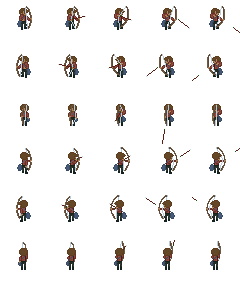
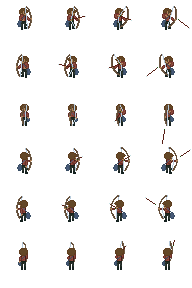
projectile height refactoring

diff --git a/src/components/HexGame/controllers/utils/HexMapPathFinder.js b/src/components/HexGame/controllers/utils/HexMapPathFinder.js
@@ -36,13 +36,10 @@ export default class HexMapPathFinderClass {
     findMoveSet = () => {
 
         let unit = this.unitData.selectedUnit
-        if (unit === null) return
 
         let moveSet = this.utils.findMoveSet(unit.position, unit.stats.movement)
         let actionMoveSet = this.utils.findActionMoveSet(unit.position)
         let attackMoveSet = this.utils.findAttackMoveSet(unit.position, unit.stats.range)
-
-        if (!moveSet) return
 
         let movementSet = []
         let actionSet = []
@@ -50,22 +47,17 @@ export default class HexMapPathFinderClass {
 
         for (let tileObj of moveSet) {
             let tile = this.tileData.getEntry(tileObj.tile)
-
             movementSet.push({ ...tile.position })
         }
 
         //search for structures
-        for (let tile of actionMoveSet) {
-            if ((this.structureData.hasStructure(tile.position) && this.structureData.getStructure(tile.position).spriteType === 'resource')
-                || (this.structureData.hasStructure(tile.position) && this.structureData.getStructure(tile.position).spriteType === 'flag')) {
-                actionSet.push({ ...tile.position })
-            }
-        }
+        for (let tile of actionMoveSet) if (this.structureData.hasAction(tile.position)) actionSet.push({ ...tile.position })  
+        
 
         for (let tile of attackMoveSet) {
             if (this.unitData.getUnit(tile.position) !== null
                 || (this.structureData.hasStructure(tile.position) && this.structureData.getStructure(tile.position).spriteType === 'bunker')) {
-                if (this.validTarget(unit.position, tile.position)) attackSet.push({ ...tile.position })
+                if (this.validTarget(unit.position, tile.position, unit.stats['drop_attack'])) attackSet.push({ ...tile.position })
             }
         }
 
@@ -100,11 +92,10 @@ export default class HexMapPathFinderClass {
         let attackSet = []
 
         for (let tile of attackMoveSet) {
-            if (this.commonUtils.tilesEqual(tile.position, unit.position)) continue
             if (this.unitData.getUnit(tile.position) !== null
                 || (this.structureData.hasStructure(tile.position) && this.structureData.getStructure(tile.position).spriteType === 'bunker')) {
                 if (this.selectionData.getPathingSelection('attack').some(pos => this.commonUtils.tilesEqual(tile.position, pos))) continue
-                if (this.validTarget(unit.position, tile.position)) attackSet.push({ ...tile.position })
+                if (this.validTarget(unit.position, tile.position, unit.stats['drop_attack'])) attackSet.push({ ...tile.position })
             }
         }
 
@@ -138,7 +129,7 @@ export default class HexMapPathFinderClass {
             if (this.unitData.getUnit(tile.position) !== null
                 || (this.structureData.hasStructure(tile.position) && this.structureData.getStructure(tile.position).spriteType === 'bunker')) {
                 if (this.selectionData.getPathingSelection('attack').some(pos => this.commonUtils.tilesEqual(tile.position, pos))) continue
-                if (this.validTarget(tilePos, tile.position)) attackSet.push({ ...tile.position })
+                if (this.validTarget(tilePos, tile.position, unit.stats['drop_attack'])) attackSet.push({ ...tile.position })
             }
         }
 
@@ -221,42 +212,41 @@ export default class HexMapPathFinderClass {
 
     }
 
-    validTarget = (pos, target) => {
+    validTarget = (pos, target, dropAttack) => {
 
-        let validateHalfTile = (tile) => {
-            let secondTile = { ...tile }
-            if ((secondTile.q - 0.5) % 1 === 0) secondTile.q -= 0.01
-            if ((secondTile.r - 0.5) % 1 === 0) secondTile.r -= 0.01
+        let validateTargetHeight = (pos, target) => {
+            let distance = this.commonUtils.getDistance(pos, target)
+            let heightDiff = this.tileData.getEntry(target).height - this.tileData.getEntry(pos).height
 
-            tile = this.commonUtils.roundToNearestHex(tile)
-            tile = this.tileData.getEntry(tile)
+            if(heightDiff <= 0 && dropAttack === true) return true
 
-            secondTile = this.commonUtils.roundToNearestHex(secondTile)
-            secondTile = this.tileData.getEntry(secondTile)
+            heightDiff = Math.abs(heightDiff)
 
-            let firstTileOpen = true
-            let secondTileOpen = true
-
-            if (tile === null || secondTile === null) return true
-
-            if (this.unitData.getUnit(tile.position) !== null) firstTileOpen = false
-            if (this.structureData.hasStructure(tile.position) && this.structureData.getStructure(tile.position).spriteType !== 'modifier') firstTileOpen = false
-
-            if (this.unitData.getUnit(secondTile.position) !== null) secondTileOpen = false
-            if (this.structureData.hasStructure(secondTile.position) && this.structureData.getStructure(secondTile.position).spriteType !== 'modifier') secondTileOpen = false
-
-            if (firstTileOpen === false && secondTileOpen === false) return false
+            if(heightDiff > distance) return false
             return true
         }
 
-        let validateTile = (tile) => {
+        let validateTileHeight = (tile, percent) => {
+            let posHeight = this.tileData.getEntry(pos).height
+            let targetHeight = this.tileData.getEntry(target).height
+            let projectileHeight = posHeight + (targetHeight - posHeight) * percent + 1
+            if (tile.height > projectileHeight) return false
+            return true
+        }
+
+        let validateTile = (tile, percent) => {
             tile = this.commonUtils.roundToNearestHex(tile)
             tile = this.tileData.getEntry(tile)
+
             if (tile === null) return true
+            if(!validateTileHeight(tile, percent)) return false
             if (this.unitData.getUnit(tile.position) !== null) return false
             if (this.structureData.hasStructure(tile.position) && this.structureData.getStructure(tile.position).spriteType !== 'modifier') return false
+
             return true
         }
+
+        if(!validateTargetHeight(pos, target)) return false
 
         let dist = this.commonUtils.getDistance(pos, target)
         let dirVector = { q: target.q - pos.q, r: target.r - pos.r }
@@ -265,10 +255,7 @@ export default class HexMapPathFinderClass {
 
         for (let i = 1; i < dist; i++) {
             let tile = { q: pos.q + dirVector.q * i, r: pos.r + dirVector.r * i }
-            let validation
-            if ((tile.q - 0.5) % 1 === 0 || (tile.r - 0.5) % 1 === 0) validation = validateHalfTile(tile)
-            else validation = validateTile(tile)
-            if (validation === false) return false
+            if (validateTile(tile, i/dist) === false) return false
         }
 
         return true

diff --git a/src/components/HexGame/config/UnitConfig.js b/src/components/HexGame/config/UnitConfig.js
@@ -12,6 +12,7 @@ export default class UnitConfig {
             movement: 4,
             range: 1,
             mining: 3,
+            drop_attack: false,
             physical_attack: 25,
             physical_attack_modifications: [{name: 'sav-', color: 'orange'}, {name: 'mtn+', color: 'mediumpurple'}, {name: 'des-', color: 'gold'}],
             elemental_attack: 35,
@@ -46,6 +47,7 @@ export default class UnitConfig {
             movement: 4,
             range: 3,
             mining: 3,
+            drop_attack: true,
             physical_attack: 25,
             physical_attack_modifications: [{name: 'sav-', color: 'orange'}, {name: 'mtn+', color: 'mediumpurple'}, {name: 'des-', color: 'gold'}],
             elemental_attack: 35,
@@ -60,7 +62,7 @@ export default class UnitConfig {
             walk: { name: 'walk', rate: 150, duration: 'continuous', type: 'action' },
             jump: { name: 'jump', rate: 250, duration: 'continuous', type: 'action' },
             mine: { name: 'mine', rate: 150, duration: 900, type: 'action' },
-            attack: { name: 'attack', rate: 150, duration: 750, type: 'action' },
+            attack: { name: 'attack', rate: 150, duration: 600, type: 'action' },
             hit: { name: 'hit', rate: 150, duration: 450, type: 'action' },
             death: { name: 'death', rate: 150, duration: 600, type: 'action' },
             capture: { name: 'capture', rate: 450, duration: 900, type: 'action' }
@@ -80,6 +82,7 @@ export default class UnitConfig {
             movement: 4,
             range: 1,
             mining: 3,
+            drop_attack: false,
             physical_attack: 25,
             physical_attack_modifications: [{name: 'sav-', color: 'orange'}, {name: 'mtn+', color: 'mediumpurple'}, {name: 'des-', color: 'gold'}],
             elemental_attack: 35,

diff --git a/src/components/HexGame/commonUtils/CommonHexMapUtils.js b/src/components/HexGame/commonUtils/CommonHexMapUtils.js
@@ -124,18 +124,6 @@ export default class CommonHexMapUtilsClass {
 
     }
 
-    getDoubleAxisDirection = (pos1, pos2) => {
-        let directionMap = [{ q: 1, r: -1 }, { q: 1, r: -0.5 }, { q: 1, r: 0 }, { q: 0.5, r: 0.5 }, { q: 0, r: 1 }, { q: -0.5, r: 1 }, { q: -1, r: 1 }, { q: -1, r: 0.5 }, { q: -1, r: 0 }, { q: -0.5, r: -0.5 }, { q: 0, r: -1 }, { q: 0.5, r: -1 }]
-
-        let dirVector = {q: pos2.q - pos1.q, r: pos2.r - pos1.r}
-        let dist = this.getDistance(pos1, pos2)
-        dirVector.q /= dist
-        dirVector.r /= dist
-
-        return this.getClosestPosIndex(dirVector, directionMap)
-
-    }
-
     getAdjacentPos = (pos, rotation) => {
         let directionMap = [{ q: 1, r: -1 }, { q: 1, r: 0 }, { q: 0, r: 1 }, { q: -1, r: 1 }, { q: -1, r: 0 }, { q: 0, r: -1 }]
         
@@ -147,8 +135,8 @@ export default class CommonHexMapUtilsClass {
 
     }
 
-    getDoubleAxisAdjacentPos = (pos, rotation) => {
-        let directionMap = [{ q: 1, r: -1 }, { q: 1, r: -0.5 }, { q: 1, r: 0 }, { q: 0.5, r: 0.5 }, { q: 0, r: 1 }, { q: -0.5, r: 1 }, { q: -1, r: 1 }, { q: -1, r: 0.5 }, { q: -1, r: 0 }, { q: -0.5, r: -0.5 }, { q: 0, r: -1 }, { q: 0.5, r: -1 }]
+    getAdjacentHalfPos = (pos, rotation) => {
+        let directionMap = [{ q: 0.49, r: -0.49 }, { q: 0.49, r: 0 }, { q: 0, r: 0.49 }, { q: -0.49, r: 0.49 }, { q: -0.49, r: 0 }, { q: 0, r: -0.49 }]
         
         let direction = directionMap[rotation]
 

diff --git a/src/components/HexGame/imageLoaders/projectiles/projectileImagesArrow.js b/src/components/HexGame/imageLoaders/projectiles/projectileImagesArrow.js
@@ -9,18 +9,12 @@ export default class ProjectileImagesArrowClass extends SheetImageLoaderClass {
         super()
 
         this.sheet_rows = {
-             0: 'backRight',
-             1: 'right',
-             2: 'frontRight',
-             3: 'frontFrontRight',
-             4: 'front',
-             5: 'frontFrontLeft',
-             6: 'frontLeft',
-             7: 'left',
-             8: 'backLeft',
-             9: 'backBackLeft',
-            10: 'back',
-            11: 'backBackRight',
+            0: 'backRight',
+            1: 'frontRight',
+            2: 'front',
+            3: 'frontLeft',
+            4: 'backLeft',
+            5: 'back',
         }
 
         this.sheet_data = {
@@ -36,17 +30,11 @@ export default class ProjectileImagesArrowClass extends SheetImageLoaderClass {
 
         this.animation_rows = {
             0: 'backRight',
-            1: 'right',
-            2: 'frontRight',
-            3: 'frontFrontRight',
-            4: 'front',
-            5: 'frontFrontLeft',
-            6: 'frontLeft',
-            7: 'left',
-            8: 'backLeft',
-            9: 'backBackLeft',
-           10: 'back',
-           11: 'backBackRight',
+            1: 'frontRight',
+            2: 'front',
+            3: 'frontLeft',
+            4: 'backLeft',
+            5: 'back',
         }
 
         this.animation_data = {

diff --git a/src/components/HexGame/data/StructureData.js b/src/components/HexGame/data/StructureData.js
@@ -58,12 +58,18 @@ export default class StructureDataClass {
     }
 
     getStructure = (pos) => {
-        if(!this.hasStructure(pos)) return null
+        if (!this.hasStructure(pos)) return null
         return this.structureMap.get(this.commonUtils.join(pos))
     }
 
     hasStructure = (pos) => {
         return this.structureMap.has(this.commonUtils.join(pos))
+    }
+
+    hasAction = (pos) => {
+        if (this.hasStructure(pos) && this.getStructure(pos).spriteType === 'resource') return true
+        if (this.hasStructure(pos) && this.getStructure(pos).spriteType === 'flag') return true
+        return false
     }
 
     getStructureMap = () => {
@@ -75,7 +81,7 @@ export default class StructureDataClass {
     }
 
     deleteStructure = (pos) => {
-        if(this.hasStructure(pos)) this.structureMap.delete(this.commonUtils.join(pos))
+        if (this.hasStructure(pos)) this.structureMap.delete(this.commonUtils.join(pos))
     }
 
 }

diff --git a/src/components/HexGame/imageLoaders/units/unitImagesMountainRanger.js b/src/components/HexGame/imageLoaders/units/unitImagesMountainRanger.js
@@ -37,8 +37,7 @@ export default class UnitImagesMountainRangerClass extends SheetImageLoaderClass
                     0: 'attack_1',
                     1: 'attack_2',
                     2: 'attack_3',
-                    3: 'attack_4',
-                    4: 'attack_5'
+                    3: 'attack_4'
                 }
             },
             death: {
@@ -95,7 +94,7 @@ export default class UnitImagesMountainRangerClass extends SheetImageLoaderClass
             walk: ['walk_1', 'idle_1', 'walk_2', 'idle_1'],
             jump: ['jump_1', 'jump_2'],
             mine: ['mine_1', 'mine_2', 'mine_3', 'mine_4', 'mine_5', 'mine_6'],
-            attack: ['attack_1','attack_2','attack_3','attack_4','attack_5'],
+            attack: ['attack_1','attack_2','attack_3','attack_4'],
             hit: ['hit_1','hit_2','hit_3'],
             death: ['death_1','death_2','death_2','death_2'],
             capture: ['idle_1', 'idle_2']

diff --git a/src/components/HexGame/data/TileStackData.js b/src/components/HexGame/data/TileStackData.js
@@ -174,6 +174,27 @@ export default class TileStackDataClass {
         return neighbors.map(key => this.getEntry(key))
     }
 
+    //returns keys of all neighbors adjacent to (q, r) in a straight line
+    getStarNeighbors = (pos, rows) => {
+
+        let isStarTile = (pos, tilePos) => {
+            let relPos = {
+                q: tilePos.q - pos.q,
+                r: tilePos.r - pos.r
+            }
+            if(relPos.q == 0) return true
+            if(relPos.r == 0) return true
+            if(relPos.q + relPos.r == 0) return true
+            return false
+        }
+
+        let neighbors = this.getNeighborKeys(pos, rows)
+
+        neighbors = neighbors.filter(key => isStarTile(pos, key))
+
+        return neighbors.map(key => this.getEntry(key))
+    }
+
     //returns keys of all neighbors adjacent to (q, r)
     getNeighborKeys = (pos, rows) => {
 

diff --git a/src/components/HexGame/gameObjects/Projectile.js b/src/components/HexGame/gameObjects/Projectile.js
@@ -29,8 +29,8 @@ export default class ProjectileClass extends SpriteObjectClass {
         this.commonUtils = new CommonHexMapUtilsClass()
 
         this.loc = loc
-        this.rotation = this.commonUtils.getDoubleAxisDirection(pos, target)
-        this.position = this.commonUtils.getDoubleAxisAdjacentPos(pos, this.rotation)
+        this.rotation = this.commonUtils.getDirection(pos, target)
+        this.position = this.commonUtils.getAdjacentHalfPos(pos, this.rotation)
         this.target = { ...target }
 
         //image data

diff --git a/src/components/HexGame/renderers/UnitRenderer.js b/src/components/HexGame/renderers/UnitRenderer.js
@@ -13,7 +13,7 @@ export default class UnitRendererClass {
 
         this.images = images
 
-        this.statusBarRenderer = new StatusBarRendererClass(this.mapData, this.images)
+        this.statusBarRenderer = new StatusBarRendererClass(gameData, images)
         this.utils = new RendererUtilsClass(gameData)
         this.commonUtils = new CommonHexMapUtilsClass()
         this.shadowRenderer = new ShadowRendererClass(gameData, images)

diff --git a/src/components/HexGame/controllers/utils/HexMapPathFinderUtils.js b/src/components/HexGame/controllers/utils/HexMapPathFinderUtils.js
@@ -128,7 +128,7 @@ export default class HexMapPathFinderUtilsClass {
     }
 
     findAttackMoveSet = (start, range) => {
-        return this.tileData.getNeighbors(start, range)
+        return this.tileData.getStarNeighbors(start, range)
     }
 
     findActionMoveSet = (start) => {
